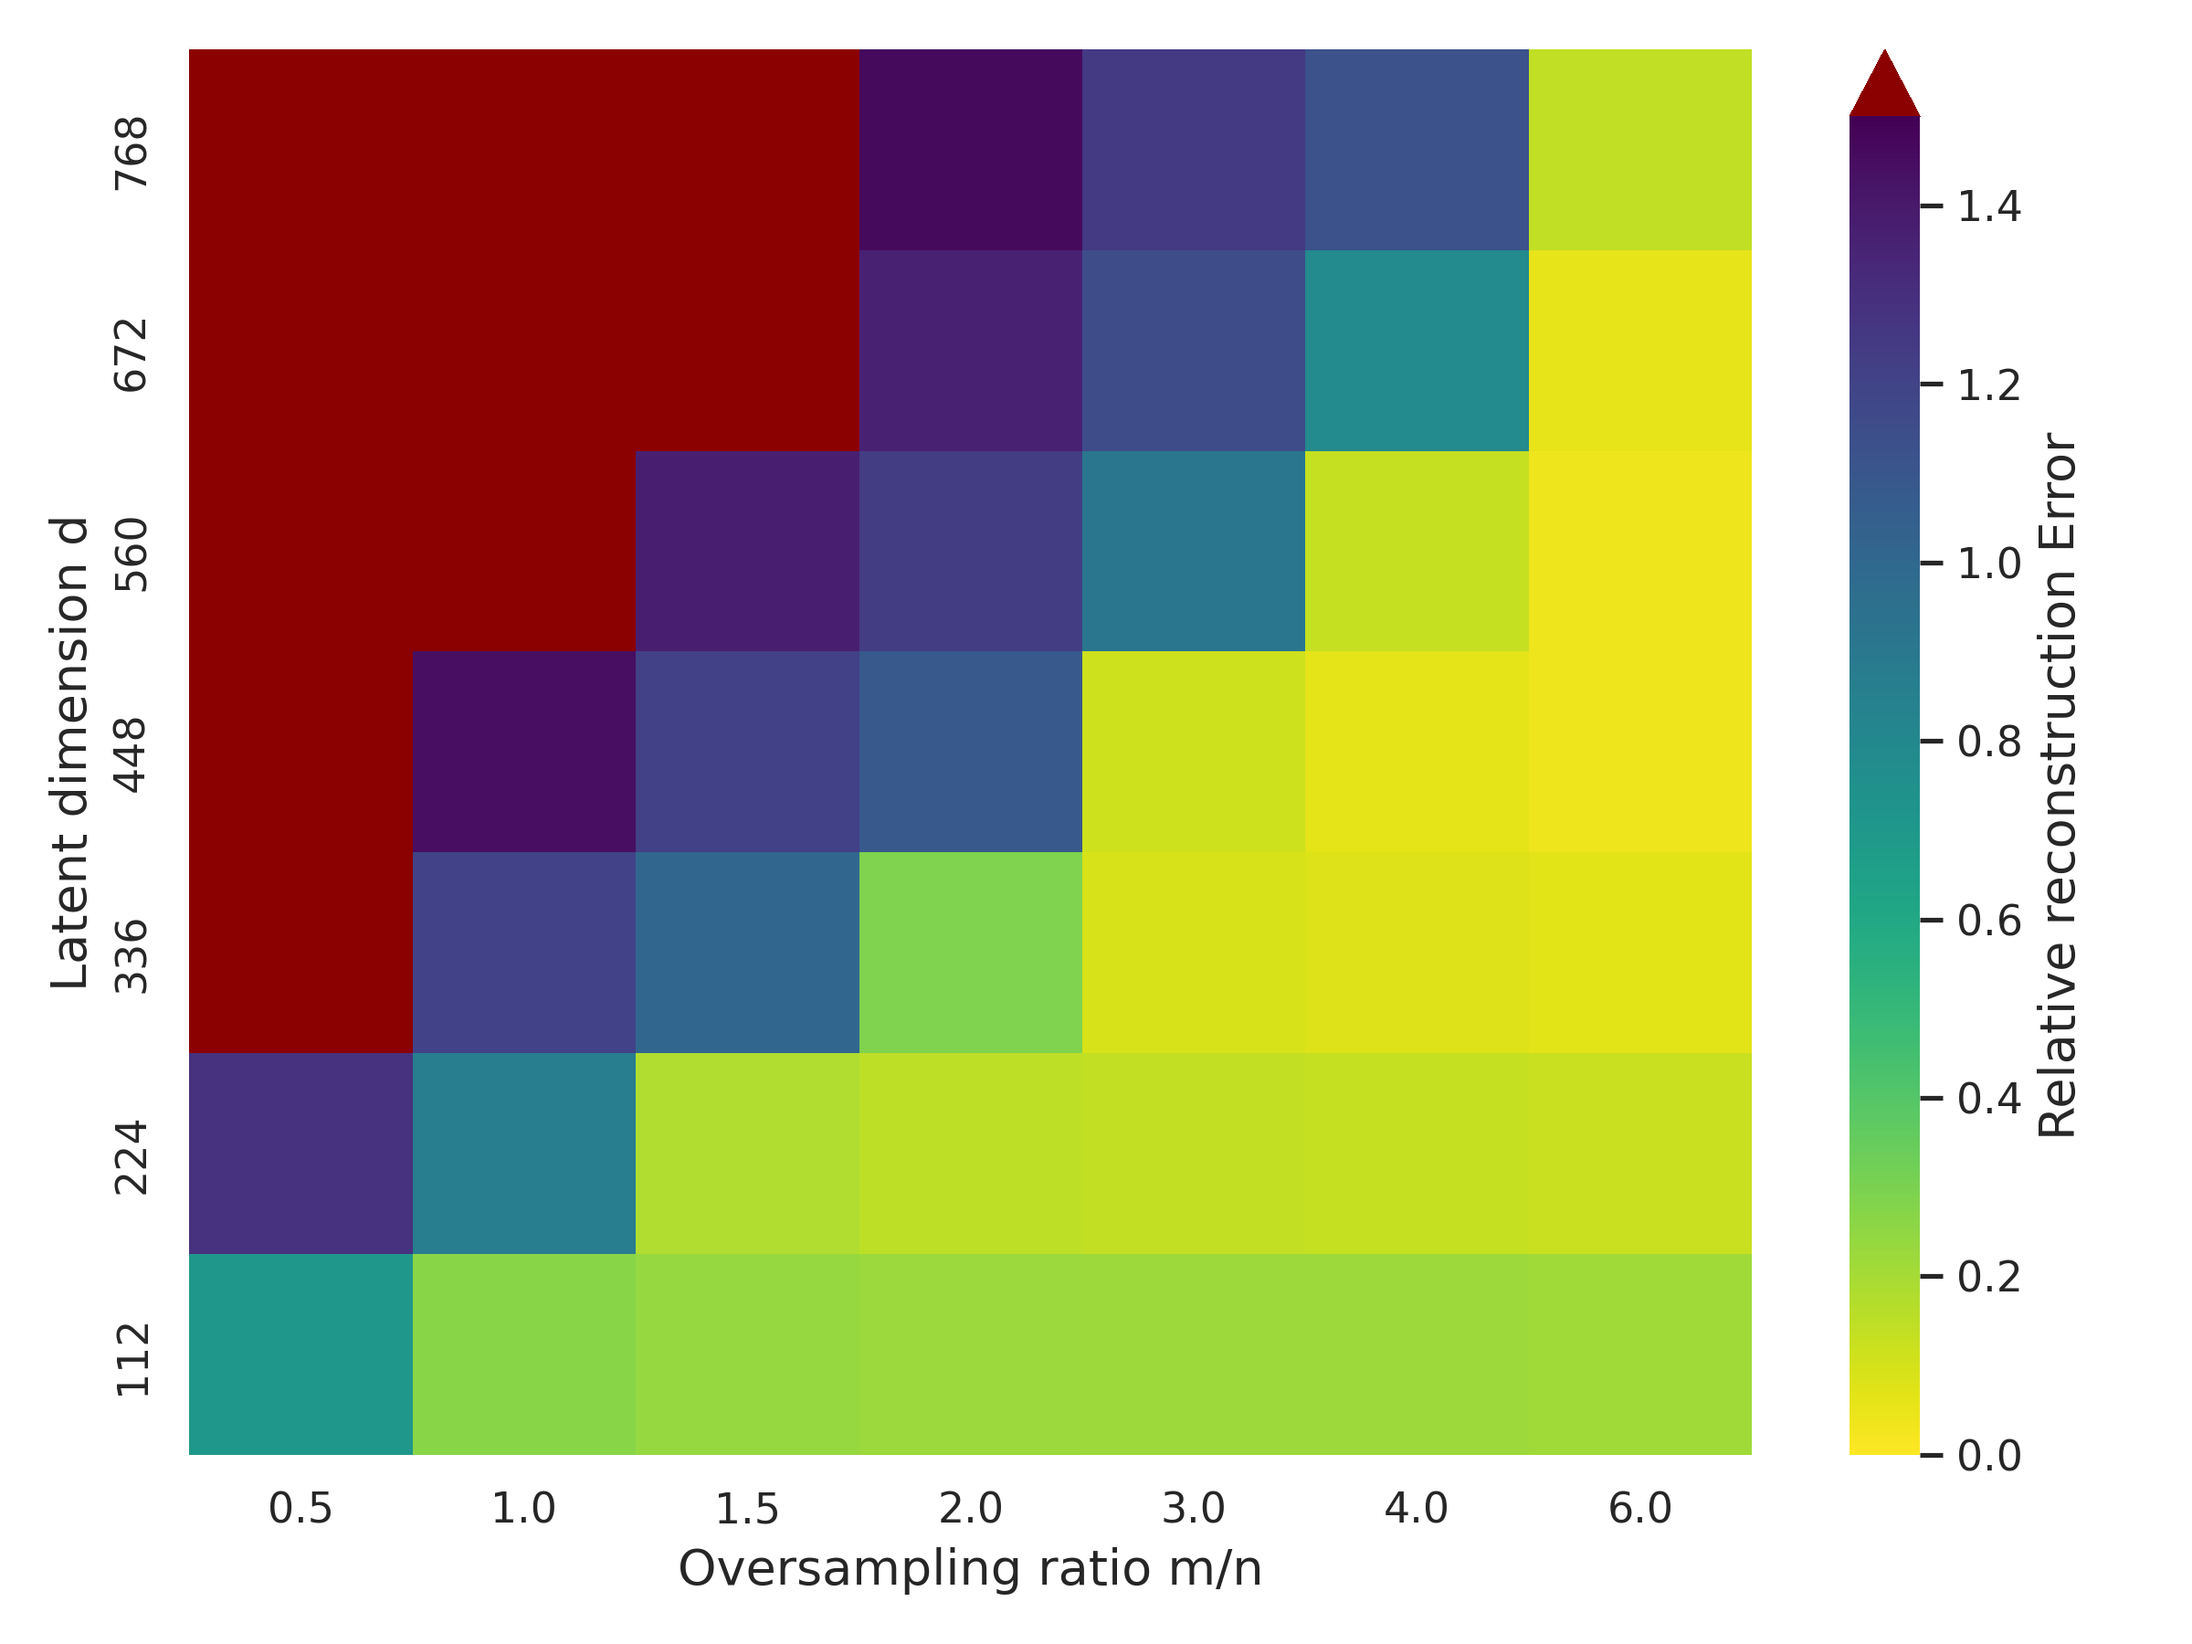
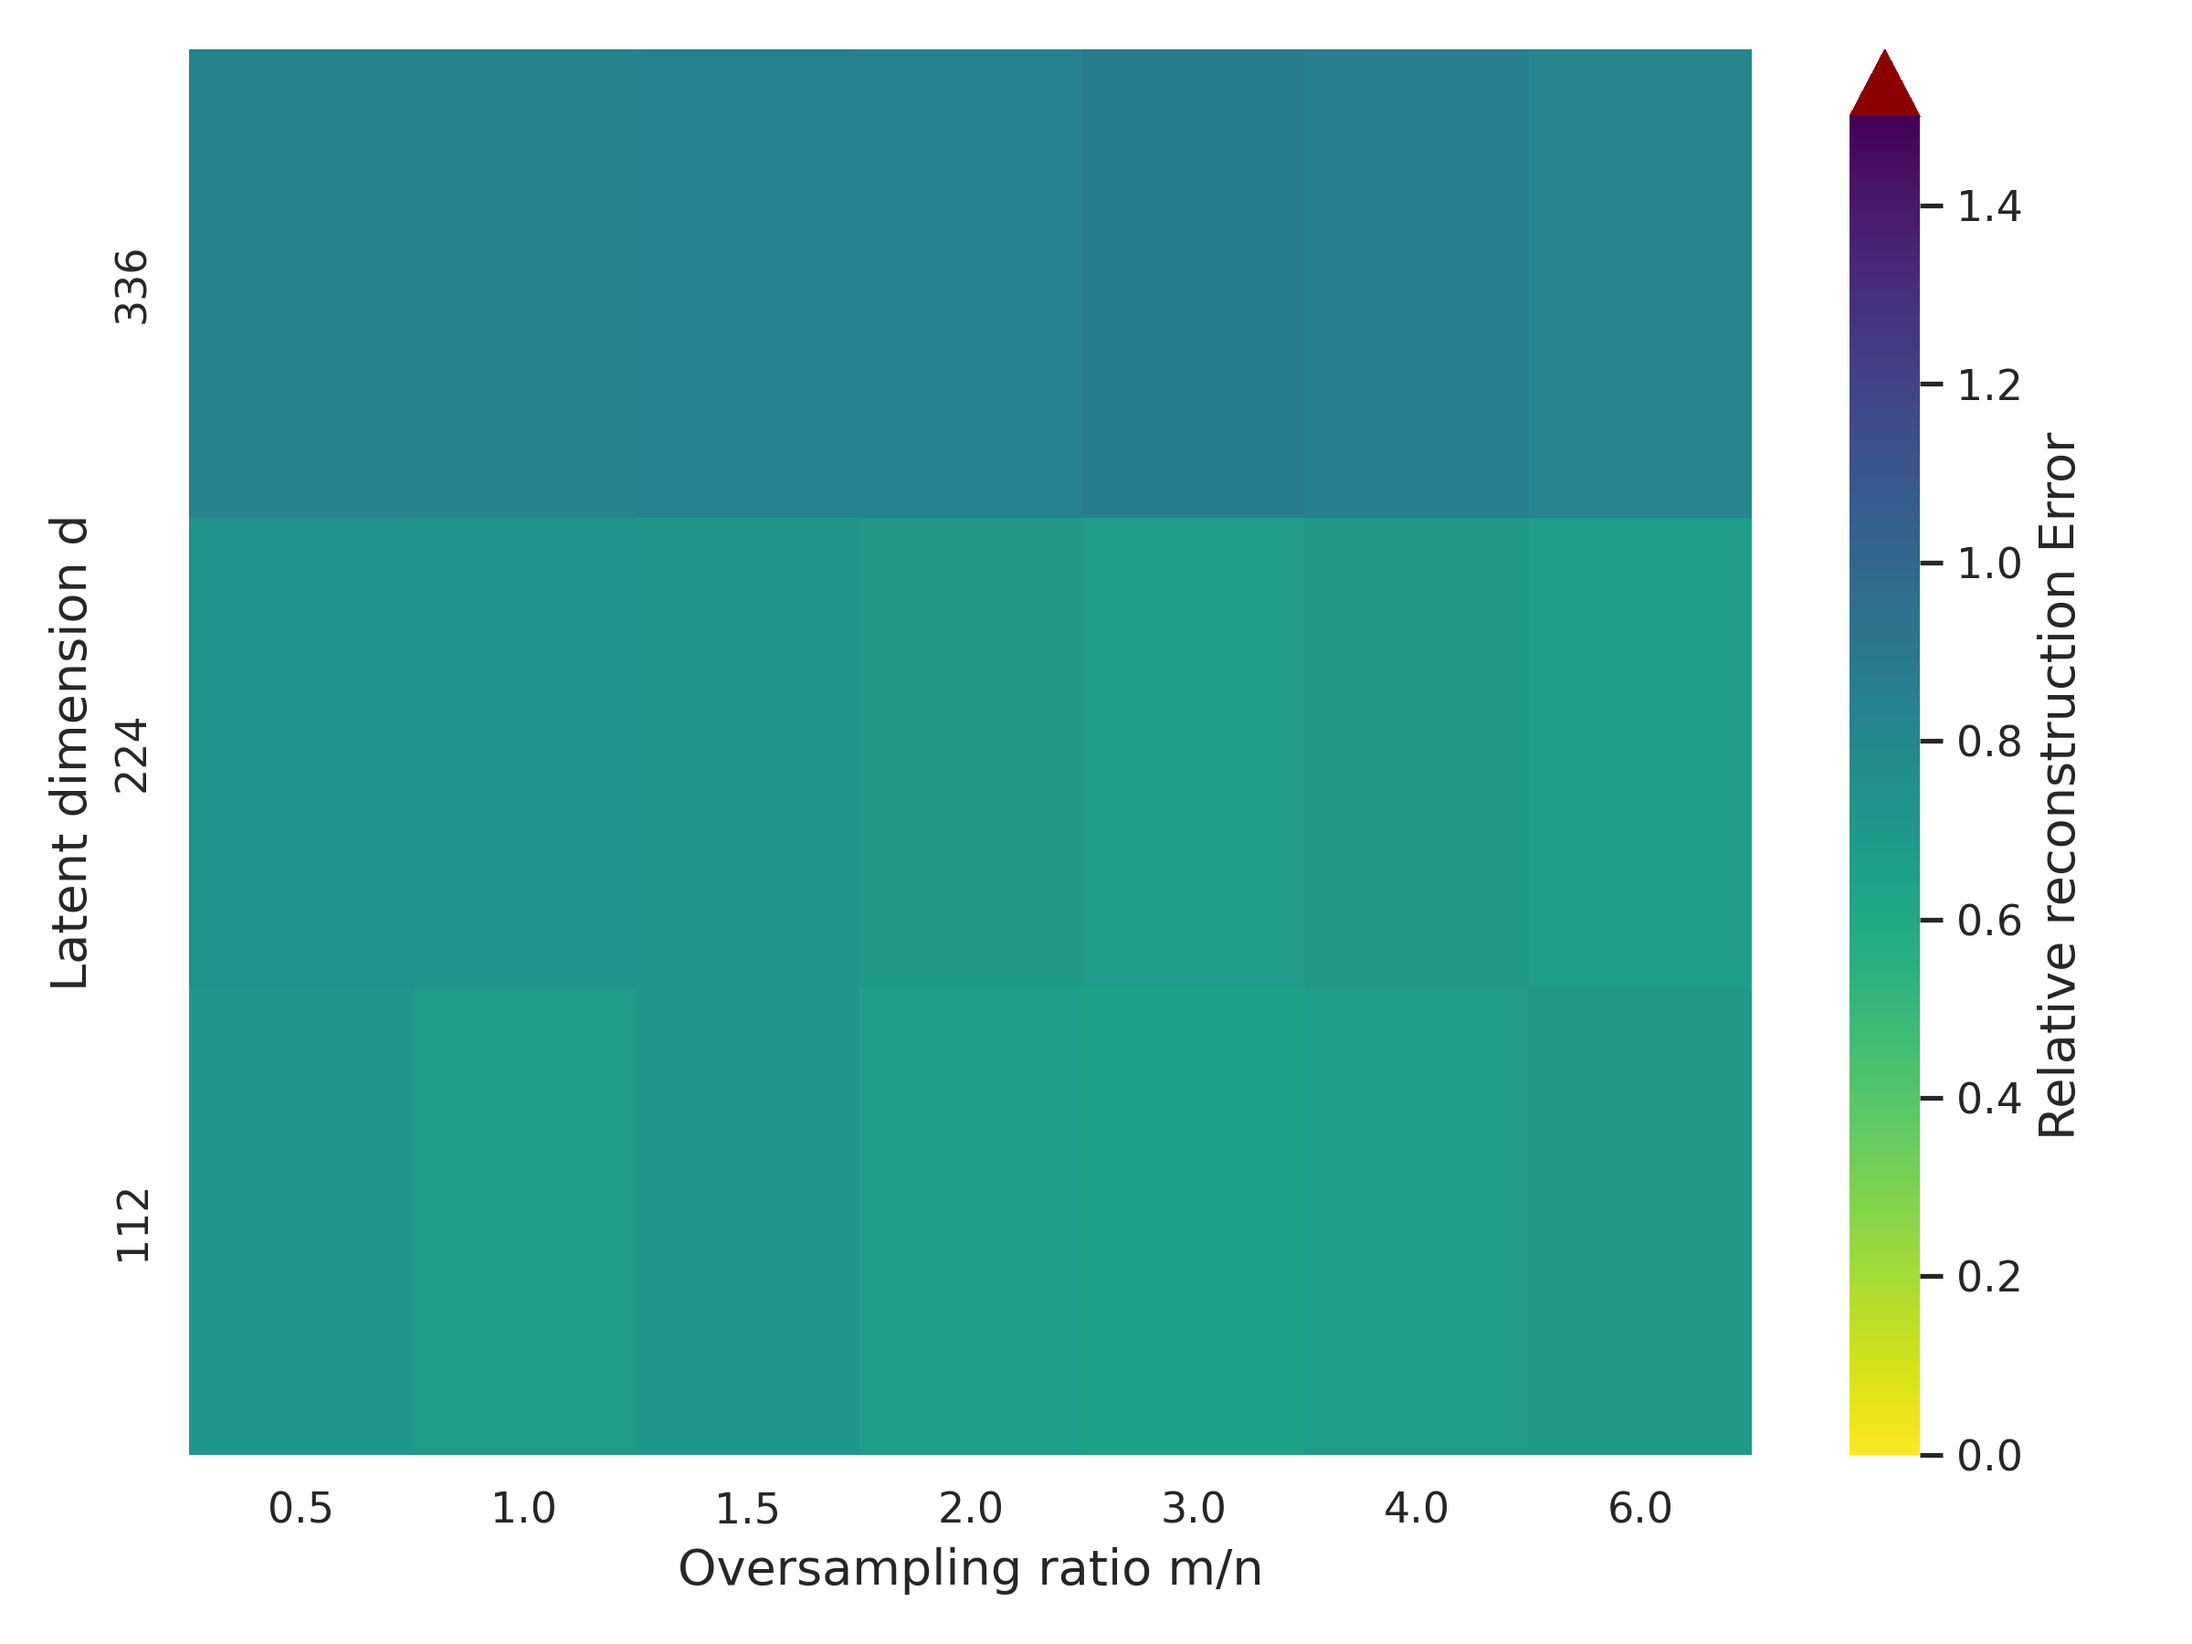
Autoencoders werkend, maar reconstructie nog niet goed.

diff --git a/src/GenerativeModel/gen_model.py b/src/GenerativeModel/gen_model.py
@@ -29,7 +29,7 @@ alpha_fs = 3     #Paper states >= 3
 alpha_f_lb = 0.3     #Paper states should be 0 <= alpha <= 0.5
 alpha_f_ub = 5     #Paper states that >= 5
 
-validation_batch_size = 20
+validation_batch_size = 50
 
 #######################################################################################################################################
 #Small utility functions and initialization
@@ -74,7 +74,7 @@ test_indices = torch.randperm(len(test_dataset))[:validation_size]
 test_data = Subset(test_dataset, test_indices)
 
 train_dataloader = DataLoader(training_data,
-                              batch_size=128,
+                              batch_size=512,
                               num_workers=6,
                               pin_memory=True,
                               persistent_workers=True,
@@ -293,24 +293,24 @@ class AutoEncoder(nn.Module):
         hidden3 = n - 3 * step
 
         self.encoder = nn.Sequential(
-            nn.Linear(n, hidden1),
+            nn.Linear(n, hidden2),
             nn.ReLU(),
-            nn.Linear(hidden1, hidden2),
-            nn.ReLU(),
-            nn.Linear(hidden2, hidden3),
-            nn.ReLU(),
-            nn.Linear(hidden3, d),
+            #nn.Linear(hidden1, hidden2),
+            #nn.ReLU(),
+            #nn.Linear(hidden2, hidden3),
+            #nn.ReLU(),
+            nn.Linear(hidden2, d),
         )
 
         self.decoder = nn.Sequential(
-            nn.Linear(d, hidden3),
+            nn.Linear(d, hidden2),
             nn.ReLU(),
-            nn.Linear(hidden3, hidden2),
-            nn.ReLU(),
-            nn.Linear(hidden2, hidden1),
-            nn.ReLU(),
-            nn.Linear(hidden1, n),
-            nn.Softplus(),
+            #nn.Linear(hidden3, hidden2),
+            #nn.ReLU(),
+            #nn.Linear(hidden2, hidden1),
+            #nn.ReLU(),
+            nn.Linear(hidden2, n),
+            nn.Sigmoid(),
         )
 
     def forward(self, x):
@@ -319,11 +319,11 @@ class AutoEncoder(nn.Module):
         return decoded
 
 def decode_ae(model, z):
-    return model.decoder(z.detach().unsqueeze(-1)).squeeze(-1)
+    return model.decoder(z.detach())
 
 #Training parameters
 learning_rate = 1e-3
-epochs = 100
+epochs = 60
 
 def train_loop(dataloader, model, optimizer, loss_fn):
     for epoch in range(epochs):
@@ -351,14 +351,16 @@ def train_ae(d: int, n: int):
 # Reconstruction under the autoencoder regime.
 #######################################################################################################################################
 
-def update_rule_ae(z, A, y, alpha_fs, model, z_lr):
-    f = decode_ae(model, z)
-
+def update_rule_ae(z, A, y, alpha_fs, model, optimizer, z_lr):
+    optimizer.zero_grad()
+    with torch.no_grad():
+        f = model.decoder(z)
     grad_f = poisson_wirtinger_grad(A, f, y, alpha_fs)
-    something = 0 #This should be the jacobian of G.
-    grad_z = grad_f * 0
 
-    z = z - z_lr * grad_z
+    f2 = model.decoder(z)
+    f2.backward(grad_f.detach())
+    optimizer.step()
+
     return z
 
 def optimize_model_ae(d: int, n: int, m: int, A, y, model):
@@ -366,11 +368,12 @@ def optimize_model_ae(d: int, n: int, m: int, A, y, model):
     z_lr = 0.1 / m
 
     z = torch.randn(validation_batch_size, d, requires_grad=True, device=device)
-
+    optimizer = torch.optim.Adam([z], lr=1e-2)
     for _ in range(MAX_ITER):
-        z = update_rule_ae(z, A, y, alpha_fs, model, z_lr)
+        z = update_rule_ae(z, A, y, alpha_fs, model, optimizer, z_lr)
 
-    return model(z)
+    with torch.no_grad():
+        return model.decoder(z)
 
 #######################################################################################################################################
 #Utility/Caller functions to generate statistics on the reconstruction error
@@ -379,10 +382,11 @@ def optimize_model_ae(d: int, n: int, m: int, A, y, model):
 def calc_reconstruction_error(inputs) -> (int, int, float):
     n = 784
     d = inputs[0][0]
-    components, mu = inputs[0][1]
+    model = inputs[0][1].to(device=device, dtype=torch.float32)
+    #components, mu = inputs[0][1]
 
-    U = components.T.to(device=device, dtype=torch.float32)
-    mu = mu.squeeze(0).to(device=device, dtype=torch.float32)
+    #U = components.T.to(device=device, dtype=torch.float32)
+    #mu = mu.squeeze(0).to(device=device, dtype=torch.float32)
 
     oversampling = inputs[1]
     m = int(oversampling * n)
@@ -398,7 +402,7 @@ def calc_reconstruction_error(inputs) -> (int, int, float):
         A = generate_measurement_matrix_gpu(n, m, validation_batch_size)
         y = generate_measurement_gpu(A, gt)
 
-        estimators = optimize_model_pca(d, n, m, A, y, mu, U)
+        estimators = optimize_model_ae(d, n, m, A, y, model)
         #print(gt)
         #print(estimators)
         del A,y
@@ -412,10 +416,11 @@ def calc_reconstruction_error(inputs) -> (int, int, float):
 
 
 def run_simulation():
-     neural_net_dim = [112, 224, 336, 448, 560, 672, 768]
-     X_train = flatten_data(train_dataloader).to(device)
-     components, mu = compute_pca(X_train, 768)
-     models = [(components[:d], mu) for d in neural_net_dim]
+     neural_net_dim =  [112, 224, 336, 448, 560, 672, 784]
+     #X_train = flatten_data(train_dataloader).to(device)
+     #components, mu = compute_pca(X_train, 784)
+     #models = [(components[:d], mu) for d in neural_net_dim]
+     models = [train_ae(d, 784) for d in neural_net_dim]
      oversampling = [0.5, 1, 1.5, 2, 3, 4, 6]
 
      "Starting reconstruction"
